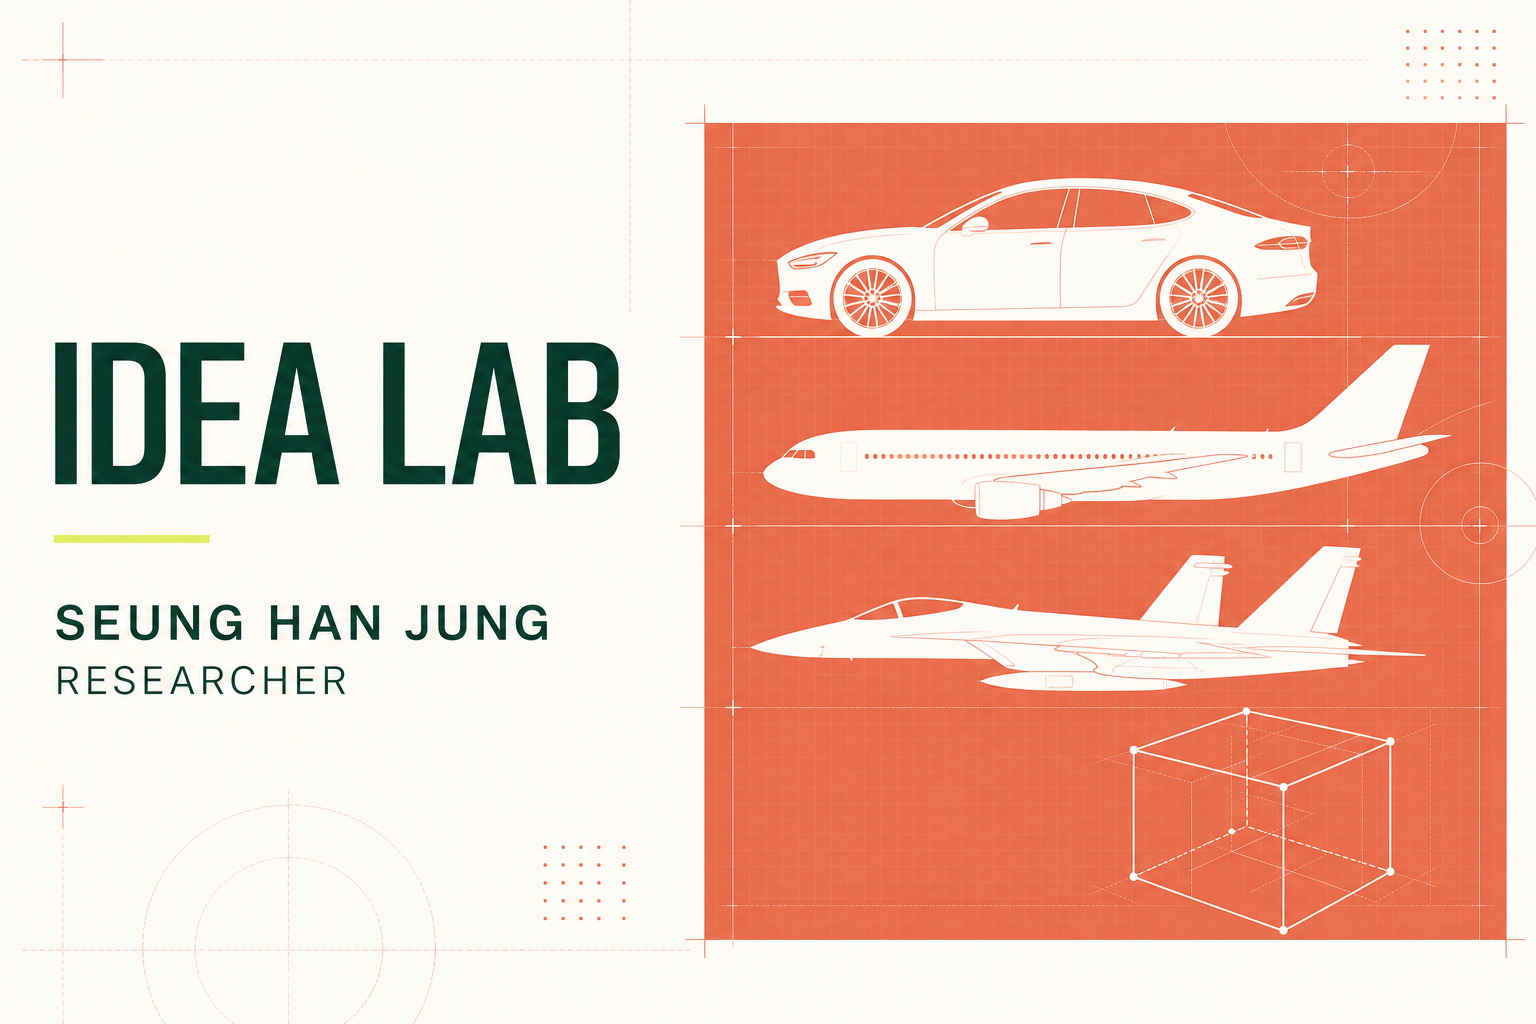
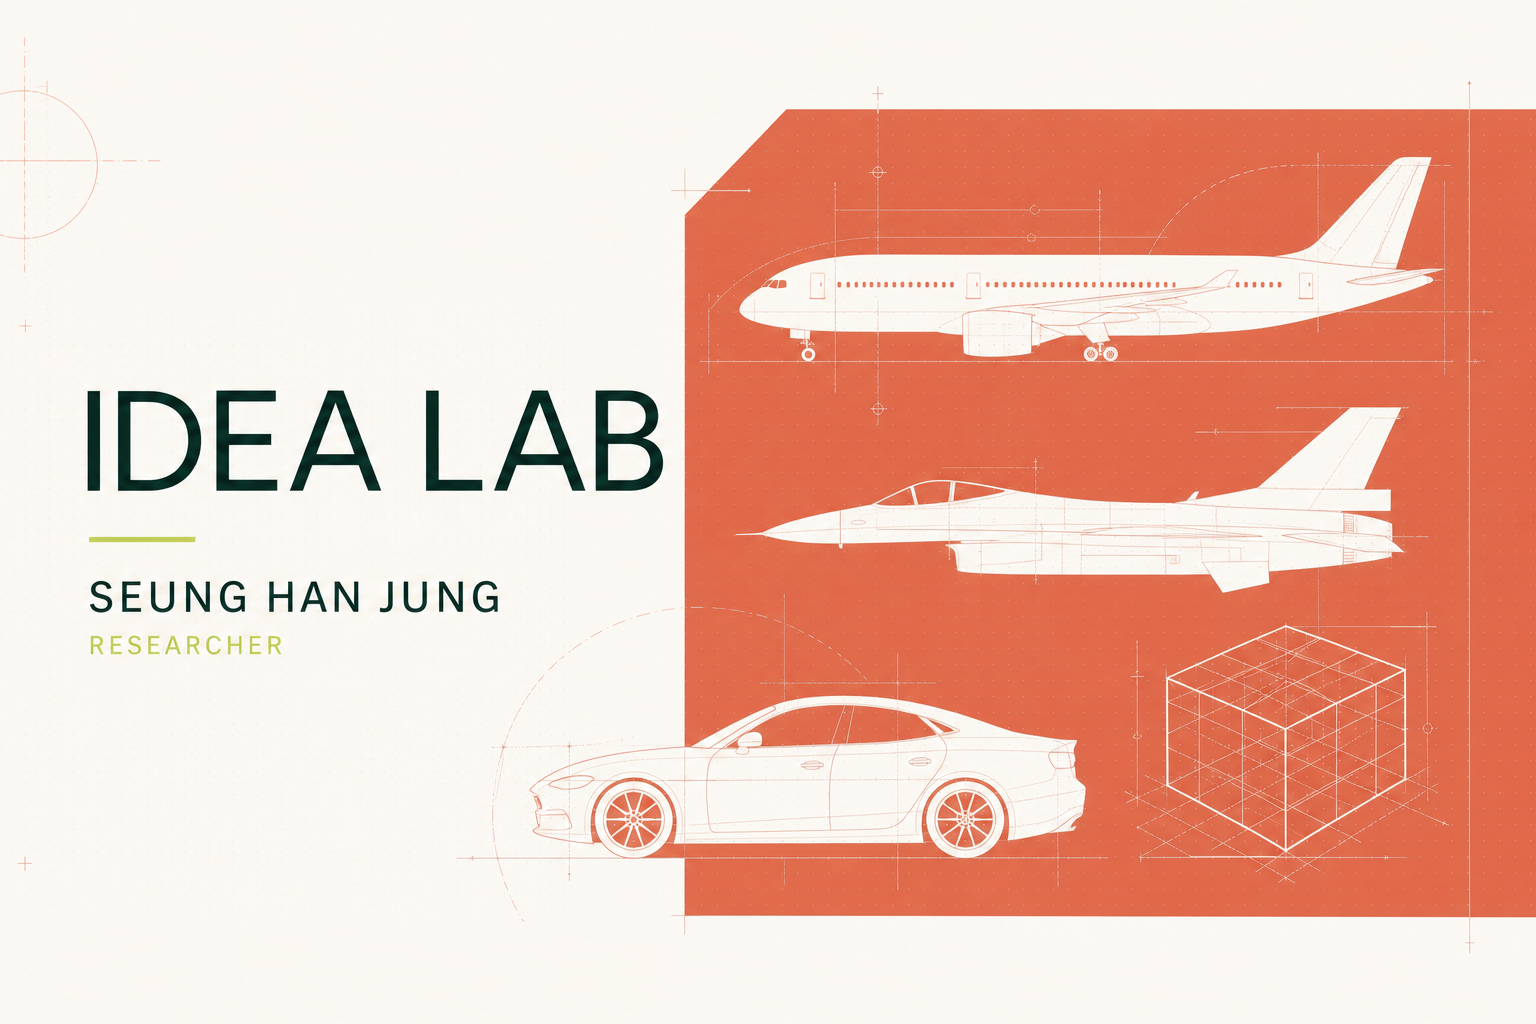
Refine portfolio typography

Changed region(s): [[0.0312, 0.0938, 1.0, 0.9375], [0.0312, 0.5625, 0.375, 0.6875], [0.0312, 0.0312, 0.0625, 0.0625]]

diff --git a/app/globals.css b/app/globals.css
@@ -8,6 +8,8 @@
   --line: #e2dfd6;
   --accent: #d86545;
   --acid: #d9e86f;
+  --font-ui: "Segoe UI Variable Text", "Segoe UI", "Pretendard", "Apple SD Gothic Neo", "Malgun Gothic", sans-serif;
+  --font-display: "Segoe UI Variable Display", "Segoe UI", "Pretendard", "Apple SD Gothic Neo", "Malgun Gothic", sans-serif;
 }
 
 * { box-sizing: border-box; }
@@ -16,7 +18,8 @@ body {
   margin: 0;
   background: var(--ivory);
   color: var(--ink);
-  font-family: "Gulim", "굴림", Arial, sans-serif;
+  font-family: var(--font-ui);
+  font-optical-sizing: auto;
   -webkit-font-smoothing: antialiased;
 }
 a { color: inherit; text-decoration: none; }
@@ -31,7 +34,7 @@ main { overflow: hidden; }
   justify-content: space-between;
   border-bottom: 1px solid var(--line);
 }
-.wordmark { display: flex; flex-direction: column; gap: 4px; font-family: "Gulim", "굴림", Arial, sans-serif; line-height: 1; }
+.wordmark { display: flex; flex-direction: column; gap: 4px; font-family: var(--font-display); line-height: 1; }
 .wordmark strong { font-size: 20px; letter-spacing: -.02em; }
 .wordmark span { color: var(--accent); font-size: 9px; letter-spacing: .22em; }
 nav { display: flex; align-items: center; gap: 22px; font-size: 11px; font-weight: 700; letter-spacing: .05em; text-transform: uppercase; }
@@ -54,12 +57,12 @@ nav a:hover { opacity: .55; }
 .eyebrow span { width: 8px; height: 8px; border-radius: 50%; background: var(--accent); }
 .hero h1, .section h2, footer h2 {
   margin: 0;
-  font-family: "Gulim", "굴림", Arial, sans-serif;
-  font-weight: 400;
-  letter-spacing: -.055em;
+  font-family: var(--font-display);
+  font-weight: 600;
+  letter-spacing: -.045em;
 }
 .hero h1 { max-width: 790px; font-size: clamp(52px, 5.4vw, 78px); line-height: 1.04; overflow-wrap: normal; }
-.hero h1 em, .areas-layout h2 em, footer h2 em { color: var(--accent); font-weight: 400; }
+.hero h1 em, .areas-layout h2 em, footer h2 em { color: var(--accent); font-style: normal; font-weight: 450; }
 .hero-intro { max-width: 580px; margin: 38px 0 0; color: var(--muted); font-size: 17px; line-height: 1.75; word-break: keep-all; }
 .hero-intro strong { color: var(--ink); }
 .hero-actions { display: flex; align-items: center; gap: 28px; margin-top: 40px; }
@@ -118,12 +121,12 @@ nav a:hover { opacity: .55; }
 .demo-visual::after { width: 380px; height: 150px; transform: rotate(35deg); border-color: rgba(216,101,69,.75); }
 .demo-message { position: relative; z-index: 2; text-align: center; }
 .play-mark { width: 80px; height: 80px; margin: 0 auto 20px; border-radius: 50%; background: var(--acid); color: var(--ink); display: grid; place-items: center; padding-left: 4px; font-size: 20px; box-shadow: 0 0 0 12px rgba(217,232,111,.1); }
-.demo-message p { margin: 0 0 7px; font: 22px "Gulim", "굴림", Arial, sans-serif; letter-spacing: .06em; }
+.demo-message p { margin: 0 0 7px; font: 600 22px var(--font-display); letter-spacing: .06em; }
 .demo-message small { color: #c2cec9; font-size: 11px; }
 .demo-duration { position: absolute; z-index: 2; right: 18px; bottom: 16px; font-size: 9px; letter-spacing: .12em; }
 .work-copy { padding: 52px 44px; display: flex; flex-direction: column; }
 .work-number { margin: 0 0 auto; color: var(--acid); font-size: 9px; font-weight: 700; letter-spacing: .16em; }
-.work-copy h3 { margin: 28px 0 22px; font: 400 clamp(38px, 3.2vw, 55px)/1.02 "Gulim", "굴림", Arial, sans-serif; letter-spacing: -.04em; }
+.work-copy h3 { margin: 28px 0 22px; font: 550 clamp(38px, 3.2vw, 55px)/1.04 var(--font-display); letter-spacing: -.035em; }
 .work-copy > p:not(.work-number) { color: #b8c2bd; font-size: 13px; line-height: 1.8; word-break: keep-all; }
 .tag-row { display: flex; gap: 7px; margin: 20px 0 34px; }
 .tag-row span { border: 1px solid #597067; padding: 6px 9px; border-radius: 50px; color: #c9d2ce; font-size: 9px; }
@@ -131,9 +134,9 @@ nav a:hover { opacity: .55; }
 .project-grid { display: grid; grid-template-columns: 1fr 1fr 1fr; border: 1px solid var(--line); border-top: 0; }
 .project-grid article { min-height: 260px; padding: 28px; border-right: 1px solid var(--line); display: flex; flex-direction: column; }
 .project-grid article:last-child { border: 0; }
-.project-grid article > span { font: 21px "Gulim", "굴림", Arial, sans-serif; color: var(--accent); }
+.project-grid article > span { font: 500 21px var(--font-display); color: var(--accent); }
 .project-grid article > p { margin: auto 0 10px; text-transform: uppercase; font-size: 9px; font-weight: 800; letter-spacing: .13em; color: var(--muted); }
-.project-grid h3 { margin: 0 0 12px; max-width: 300px; font: 400 28px/1.1 "Gulim", "굴림", Arial, sans-serif; letter-spacing: -.03em; }
+.project-grid h3 { margin: 0 0 12px; max-width: 300px; font: 550 28px/1.14 var(--font-display); letter-spacing: -.025em; }
 .project-grid small { color: var(--muted); }
 .project-more { background: var(--paper); justify-content: space-between; }
 .project-more h3 { margin: auto 0 0; }
@@ -143,8 +146,8 @@ nav a:hover { opacity: .55; }
 .areas-layout > h2 { font-size: clamp(58px, 6vw, 92px); line-height: .95; }
 .area-list article { display: grid; grid-template-columns: 70px 1fr; gap: 30px; border-top: 1px solid var(--line); padding: 30px 0 36px; }
 .area-list article:last-child { border-bottom: 1px solid var(--line); }
-.area-list > article > span { color: var(--accent); font: 18px "Gulim", "굴림", Arial, sans-serif; }
-.area-list h3 { margin: 0 0 10px; font: 400 31px "Gulim", "굴림", Arial, sans-serif; }
+.area-list > article > span { color: var(--accent); font: 500 18px var(--font-display); }
+.area-list h3 { margin: 0 0 10px; font: 550 31px var(--font-display); }
 .area-list p { max-width: 520px; margin: 0; color: var(--muted); font-size: 13px; line-height: 1.75; word-break: keep-all; }
 
 .publications { border-top: 1px solid var(--line); }
@@ -152,13 +155,13 @@ nav a:hover { opacity: .55; }
 .publication-list { border-top: 1px solid var(--ink); }
 .publication-list article { display: grid; grid-template-columns: 90px 1fr 40px; gap: 26px; padding: 29px 12px; border-bottom: 1px solid var(--line); align-items: center; transition: background .2s ease, padding .2s ease; }
 .publication-list article:hover { background: var(--paper); padding-left: 22px; }
-.paper-year { font: 17px "Gulim", "굴림", Arial, sans-serif; color: var(--accent); }
-.publication-list h3 { margin: 0 0 8px; font: 400 25px/1.2 "Gulim", "굴림", Arial, sans-serif; }
+.paper-year { font: 500 17px var(--font-display); color: var(--accent); }
+.publication-list h3 { margin: 0 0 8px; font: 550 25px/1.24 var(--font-display); }
 .publication-list p { margin: 0; color: var(--muted); font-size: 11px; }
 .paper-arrow { font-size: 20px; }
 
 .split-section { display: grid; grid-template-columns: 1fr 1fr; gap: 8vw; border-top: 1px solid var(--line); }
-.news-column > h2, .study-column > h2 { margin: 0 0 44px; font-family: "Gulim", "굴림", Arial, sans-serif; font-weight: 400; letter-spacing: -.04em; }
+.news-column > h2, .study-column > h2 { margin: 0 0 44px; font-family: var(--font-display); font-weight: 600; letter-spacing: -.04em; }
 .news-list { border-top: 1px solid var(--ink); }
 .news-list article { display: grid; grid-template-columns: 86px 1fr; gap: 20px; padding: 24px 0; border-bottom: 1px solid var(--line); }
 .news-list time { color: var(--accent); font-size: 11px; font-weight: 700; }
@@ -166,15 +169,15 @@ nav a:hover { opacity: .55; }
 .study-list { display: flex; flex-direction: column; gap: 10px; }
 .study-list a { background: var(--paper); padding: 22px; display: grid; grid-template-columns: 38px 1fr 24px; align-items: center; transition: transform .2s ease, background .2s ease; }
 .study-list a:hover { transform: translateX(5px); background: #fffdf7; }
-.study-list > a > span { color: var(--accent); font: 16px "Gulim", "굴림", Arial, sans-serif; }
-.study-list h3 { margin: 0 0 5px; font: 400 21px "Gulim", "굴림", Arial, sans-serif; }
+.study-list > a > span { color: var(--accent); font: 500 16px var(--font-display); }
+.study-list h3 { margin: 0 0 5px; font: 550 21px var(--font-display); }
 .study-list p { margin: 0; color: var(--muted); font-size: 10px; }
 .study-list b { font-weight: 400; }
 
 footer { background: var(--ink); color: var(--paper); padding: 100px max(32px, calc((100vw - 1380px) / 2)); }
 footer > div:first-child p { color: var(--acid); font-size: 11px; text-transform: uppercase; letter-spacing: .15em; }
 footer h2 { margin: 22px 0 60px; font-size: clamp(60px, 7vw, 104px); line-height: .94; }
-.footer-mail { border-bottom: 1px solid #62776f; padding: 20px 0; display: flex; justify-content: space-between; font: 24px "Gulim", "굴림", Arial, sans-serif; }
+.footer-mail { border-bottom: 1px solid #62776f; padding: 20px 0; display: flex; justify-content: space-between; font: 500 24px var(--font-display); }
 .footer-bottom { margin-top: 80px; padding-top: 22px; border-top: 1px solid #4b635a; display: flex; justify-content: space-between; color: #aab7b2; font-size: 9px; letter-spacing: .1em; }
 
 @media (max-width: 900px) {
